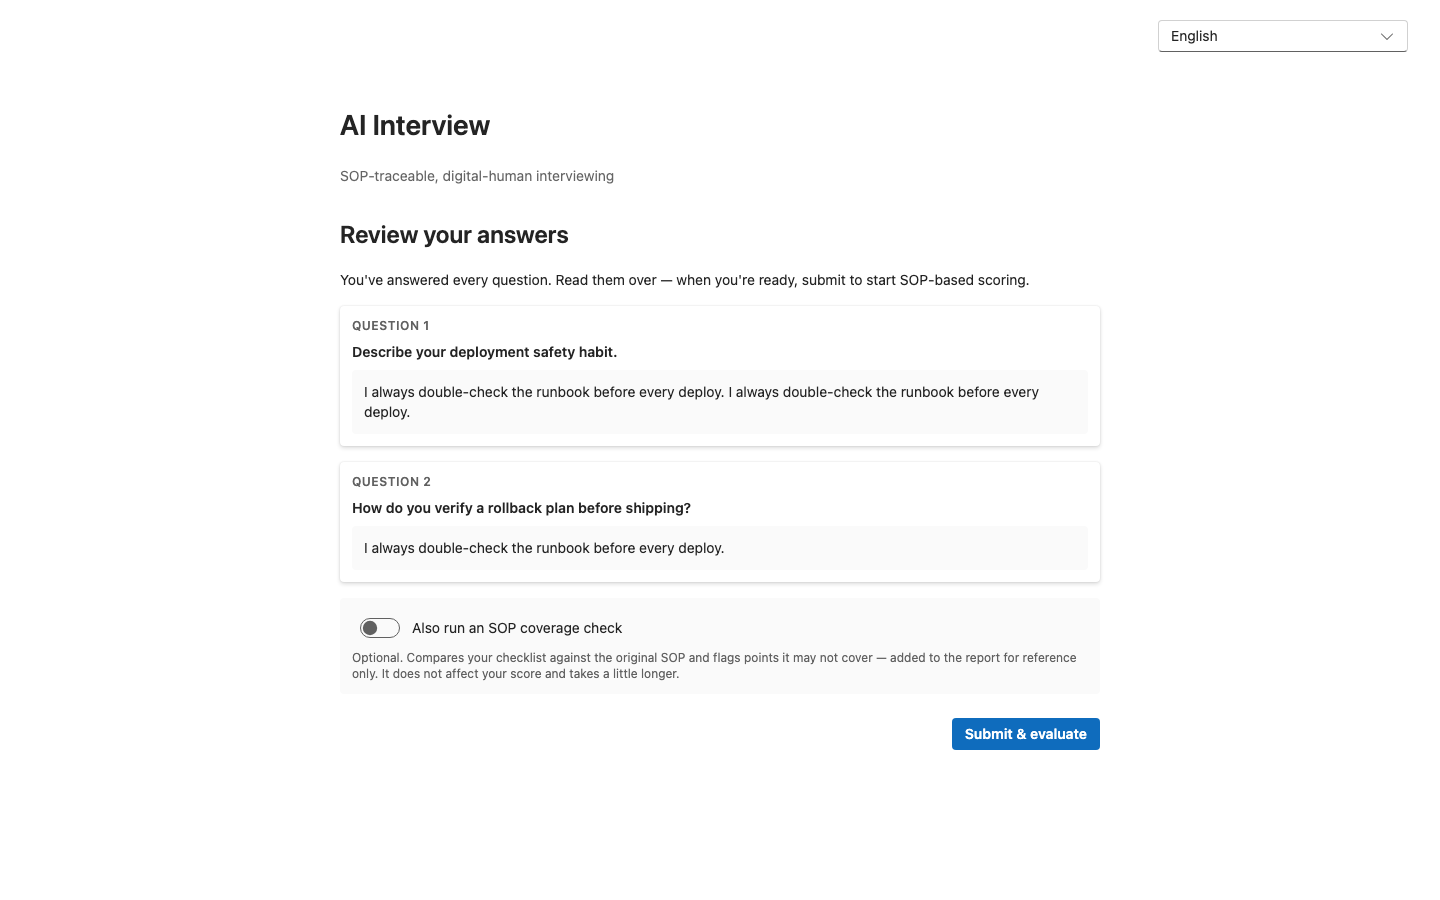
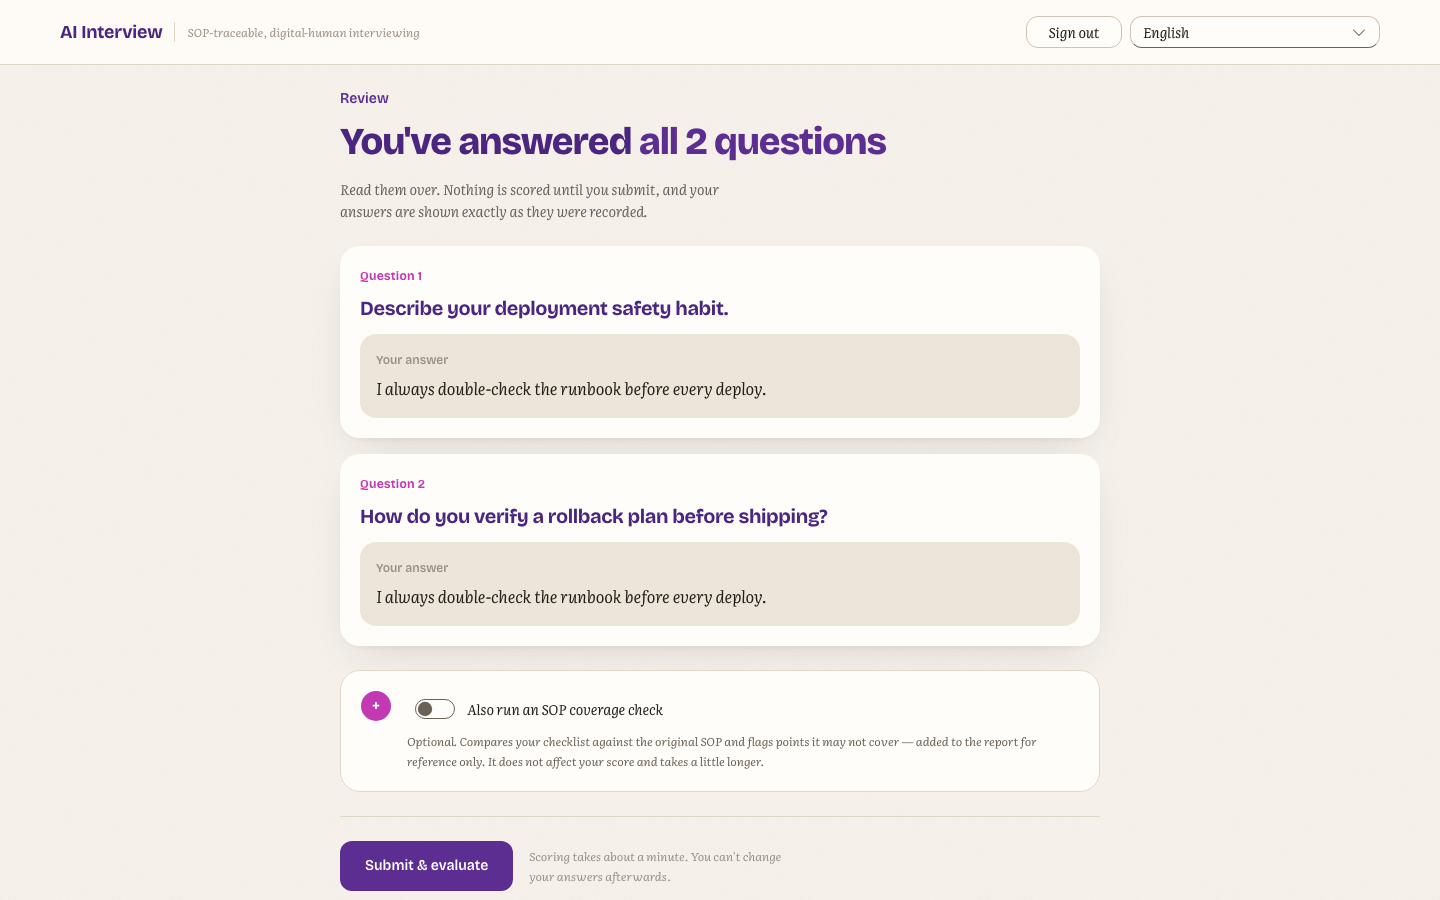
docs(readme): screenshots and prose current as of v0.42.2.0
Five of the README's nine screenshots were from 28 August — five weeks stale,
across four candidate screens that had been redesigned twice since. The page
also carried a warning block saying every screenshot predated v0.41.0.0, a test
count of "460+" against an actual 723, and an image of a feature that no longer
exists.

Screenshots: all nine regenerated on the mock stack. Two are new — the sign-in
screen, which the README never showed even though it is now the strongest screen
in the product, and the orientation beat, which is the only screen that tells the
candidate how many questions there are and had never been captured at all.

`03-follow-up-memory.png` is deleted rather than regenerated. Its capture was
gated on the page quoting the candidate back ("You mentioned …") — the
linear-mode template follow-up retired in v0.39.2.0 — so the condition can never
be true again and the shot can never be retaken. It had been silently shipping a
picture of a retired feature. The judged nudge that replaced it needs a real
judge verdict, which the mock stack does not produce; that section now says so
and points at the live spec that does cover it.

Prose: the stale-screenshot warning is replaced by a note on the design
language, the scenario sections are renumbered around the two new screens, the
test counts are real (723 backend / 623 frontend, 85% coverage gate), the stack
line says the Fluent theme is the project's own rather than the factory default,
[…]

diff --git a/frontend/e2e/readme-screenshots.spec.ts b/frontend/e2e/readme-screenshots.spec.ts
@@ -9,6 +9,13 @@ import { primeCandidateLogin } from "./helpers/candidateLogin";
  *
  * Self-skips unless SCREENSHOTS=1 so `npm run e2e` / CI stay unchanged:
  *   cd frontend && SCREENSHOTS=1 npx playwright test e2e/readme-screenshots.spec.ts
+ *
+ * RESTART THE MOCK STACK FIRST. playwright.config sets `reuseExistingServer: !CI`, so a backend
+ * left running from an earlier session is reused — and it serves the code it booted with. That is
+ * how a capture run on 2026-10-04 produced a report screenshot still showing the doubled full stop
+ * fixed hours earlier in v0.42.1.1: the uvicorn process was four hours old. Kill anything on :8100
+ * and :5273 before capturing, or the screenshots document a version that no longer exists:
+ *   pkill -f "uvicorn app.main:app.*8100"; pkill -f "vite.*5273"
  */
 
 const ENABLED = process.env.SCREENSHOTS === "1";
@@ -19,6 +26,21 @@ const ADMIN_PW = "e2e-admin-pw";
 test.skip(!ENABLED, "README screenshot capture is opt-in: set SCREENSHOTS=1");
 
 test.use({ viewport: { width: 1440, height: 900 } });
+
+/**
+ * Clear the mic-permission dialog if it appears (recorded learning, 2026-09-24).
+ *
+ * On a local Mac, headless Chromium has no fake media device, so getUserMedia rejects and the app
+ * raises "Microphone access needed" over the answer box — even with `permissions: ["microphone"]`.
+ * CI (Linux, fake device) never sees it. Without this the capture of the interview screen failed on
+ * a missing textbox and the August screenshots silently stayed in the README.
+ */
+async function continueByTextIfAsked(page: import("@playwright/test").Page) {
+  const useText = page.getByRole("button", { name: /use text instead|改用文字/i });
+  // The dialog arrives asynchronously, so wait for whichever shows first.
+  await expect(page.getByRole("textbox").or(useText).first()).toBeVisible();
+  if (await useText.isVisible().catch(() => false)) await useText.click();
+}
 
 test.beforeAll(async () => {
   if (!ENABLED) return;
@@ -51,7 +73,17 @@ test.beforeAll(async () => {
   await api.dispose();
 });
 
-test("capture candidate flow: interview → follow-up → review → report", async ({ page }) => {
+test("capture the sign-in screen", async ({ page }) => {
+  // Deliberately NOT primed: this is the screen a candidate actually arrives on, and since
+  // v0.41.1.0 it is the strongest one in the product — the interviewer's own portrait beside the
+  // form. The other test primes the login via addInitScript, which has to happen before goto, so
+  // the unauthenticated shot needs its own page.
+  await page.goto("/interview");
+  await expect(page.getByRole("button", { name: /登录|sign in/i })).toBeVisible();
+  await page.screenshot({ path: `${OUT}/00-signin.png` });
+});
+
+test("capture candidate flow: idle → orientation → interview → review → report", async ({ page }) => {
   await primeCandidateLogin(page); // #102: /interview is login-gated
   await page.goto("/interview");
   await expect(page.getByRole("button", { name: /开始面试|start interview/i })).toBeVisible();
@@ -59,14 +91,24 @@ test("capture candidate flow: interview → follow-up → review → report", as
 
   await page.getByRole("button", { name: /开始面试|start interview/i }).click();
   await expect(page.getByText(/开始之前|before we begin/i)).toBeVisible();
+  // The orientation beat is one of the four screens redesigned in v0.42.0.0 and had never been
+  // captured: it is the only screen that tells the candidate how many questions there are.
+  await page.screenshot({ path: `${OUT}/01b-orientation.png` });
   await page.getByRole("button", { name: /我准备好了|i'm ready/i }).click();
 
   await expect(page.getByTestId("question-progress")).toBeVisible();
+  await continueByTextIfAsked(page);
   await expect(page.getByRole("textbox")).toBeVisible();
   await page.screenshot({ path: `${OUT}/02-interview-question.png` });
 
-  // Answer turns until the report; grab the follow-up (memory) and review screens on the way.
-  let shotFollowUp = false;
+  // Answer turns until the report, grabbing the review screen on the way.
+  //
+  // There used to be a `03-follow-up-memory.png` capture here, gated on the body text matching
+  // /You mentioned|你刚才提到/. That was the LINEAR-mode template follow-up, retired in v0.39.2.0
+  // (a submit always advances now, in every turn mode), so the condition can never be true and the
+  // shot can never be taken — it would have silently kept shipping an August screenshot of a
+  // feature that no longer exists. The judged nudge that replaced it needs a real judge verdict,
+  // which the mock stack does not produce; it is covered by `bank-judged-live.spec.ts`.
   for (let i = 0; i < 20; i++) {
     if (await page.getByTestId("report-exec").isVisible().catch(() => false)) break;
 
@@ -83,19 +125,13 @@ test("capture candidate flow: interview → follow-up → review → report", as
     await box.fill("I always double-check the runbook before every deploy.");
     await page.getByRole("button", { name: /提交回答|submit answer/i }).click();
     await page.waitForTimeout(400);
-
-    const bodyText = (await page.locator("body").textContent().catch(() => "")) ?? "";
-    if (
-      !shotFollowUp &&
-      bodyText.includes("double-check the runbook") &&
-      /You mentioned|你刚才提到/.test(bodyText)
-    ) {
-      await page.screenshot({ path: `${OUT}/03-follow-up-memory.png` });
-      shotFollowUp = true;
-    }
   }
 
-  await expect(page.getByTestId("report-exec")).toBeVisible();
+  // The loop above only answers; waiting for the report belongs here. It used to rely on the
+  // loop's own iterations to catch `report-exec`, but once the last answer is submitted the
+  // review screen is gone and no textbox is left, so the loop breaks immediately and the default
+  // 10 s expect became the entire scoring budget — a bet on timing, not a wait.
+  await expect(page.getByTestId("report-exec")).toBeVisible({ timeout: 120_000 });
   await expect(page.getByTestId("score-gauge")).toBeVisible();
   await page.screenshot({ path: `${OUT}/05-report-executive.png`, fullPage: true });
 

diff --git a/README.md b/README.md
@@ -16,14 +16,31 @@ answers comply with the client's *own* SOP, and every judgment points back to it
 
 ## Key scenarios
 
-> **Every screenshot below predates v0.41.0.0.** That release replaced Fluent's factory
-> defaults with the project's own design language ("Warm Editorial / Foundry Purple": a warm sand
-> ground, Bricolage Grotesque + Literata, a purple action colour, and a real header band) and
-> rebuilt the page shell, so the layouts and colours shown here are the previous appearance. The
-> flows, controls and copy are unchanged. Regenerating them needs a live backend plus a seeded
-> candidate account — see `e2e/readme-screenshots.spec.ts` and the TODOS.md entry.
+> Screenshots are current as of **v0.42.2.0**, captured on the zero-Azure mock stack (the one
+> exception is the live digital-human shot below, which needs real Azure). The appearance is the
+> project's own design language, **Warm Editorial / Foundry Purple** — a warm sand ground,
+> Bricolage Grotesque + Literata, a purple action colour, and one shared content width — not
+> Fluent's factory defaults.
 
-### 1. The interview — digital-human interviewer, voice mode
+### 1. Signing in — the interviewer is the screen
+
+The candidate's first screen is the person who will interview them. The interviewer's portrait,
+the one promise that matters before starting (*you can speak or type, and you decide when each
+answer is finished*), and the form — nothing else.
+
+![Candidate sign-in — interviewer portrait beside the form](docs/images/00-signin.png)
+
+### 2. Before the interview — what you are walking into
+
+Signed in, the candidate sees who is interviewing them and the three things people actually worry
+about before starting. The next screen is the only one that says **how many questions there are**,
+with a rail previewing them:
+
+![Signed in — the interviewer, and what to expect](docs/images/01-landing.png)
+
+![Orientation — the question count and how answering works](docs/images/01b-orientation.png)
+
+### 3. The interview — digital-human interviewer, voice mode
 
 In voice mode the candidate is interviewed face-to-face: Azure Voice Live streams a live 1080p
 digital-human avatar that **speaks each question aloud** (captured below against real Azure — the
@@ -33,14 +50,14 @@ legend shows the live voice state (ready / listening / speaking / muted).
 
 ![Voice mode — live digital-human avatar speaking the question, transcript streaming](docs/images/09-live-avatar-voice.png)
 
-### 1b. Text mode — same flow, no Azure needed
+### 3b. Text mode — same flow, no Azure needed
 
 Every question can also be answered by text; on mock providers the avatar stage falls back to the
 audio orb, so the whole flow runs with zero Azure:
 
 ![Interview page in text mode — question, orb fallback, progress rail](docs/images/02-interview-question.png)
 
-### 2. Judged turn mode — a real-time nudge when an answer trails off
+### 4. Judged turn mode — a real-time nudge when an answer trails off
 
 In **Judged** turn mode a backend LLM judge listens during the candidate's pauses and, if the
 answer trails off mid-thought, speaks or shows one short nudge ("please go on" class) — live,
@@ -51,16 +68,20 @@ Also retired, in v0.39.2.0: the linear-mode template follow-up that quoted the c
 submit — a submit now always advances to the next question, in every turn mode; per-question
 **Max follow-ups** is kept for compatibility but is now inert.)
 
-![Judged turn mode nudge (screenshot predates v0.39.3.0; pending regeneration)](docs/images/03-follow-up-memory.png)
+> No screenshot: a nudge needs a real judge verdict, which the mock stack does not produce. The
+> screenshot that used to sit here showed the **linear-mode template follow-up retired in
+> v0.39.2.0** — the capture was gated on the page quoting the candidate back ("You mentioned …"),
+> which can no longer happen, so it silently kept shipping a picture of a feature that no longer
+> exists. The behaviour is covered end to end by `e2e/bank-judged-live.spec.ts` against real Azure.
 
-### 3. Review before scoring — explicit submit
+### 5. Review before scoring — explicit submit
 
 After the last question the candidate reviews every answer in order; scoring starts only on an
 explicit **Submit & evaluate** click (with an optional SOP coverage check):
 
 ![Pre-scoring review screen listing all answers](docs/images/04-review-before-scoring.png)
 
-### 4. The report — SOP-cited compliance scoring
+### 6. The report — SOP-cited compliance scoring
 
 The executive view leads with a classification rating (*Meets Expectations / Needs Improvement /
 Does Not Meet*) on a score gauge, and shows the **SOP source (document + page) beside the
@@ -72,7 +93,7 @@ source document.
 
 ![Report detail — per-question breakdown](docs/images/06-report-detail.png)
 
-### 5. Admin — question banks & AI-drafted scoring rubrics
+### 7. Admin — question banks & AI-drafted scoring rubrics
 
 Admins author question banks and per-question checklists. Checklists are **AI-drafted from the
 SOP** (required / recommended / forbidden items, each with a source quote + page), weights
@@ -80,7 +101,7 @@ normalized to 100, fully editable:
 
 ![Admin workspace — banks, questions, and the scoring rubric editor](docs/images/07-admin-rubric-editor.png)
 
-### 6. Admin — Foundry agent persona editor
+### 8. Admin — Foundry agent persona editor
 
 A portal-faithful editor for the interviewer persona: model deployment, voice, greeting, the full
 Azure avatar roster (video + photo styles), tools, per-persona knowledge, and per-engine voice
@@ -92,7 +113,8 @@ answer-submission timing (auto-submit on/off + silence window) — synced to a r
 ## Architecture
 
 ```
-frontend  React 18 + TypeScript + Vite + Fluent UI v9 · TanStack Query · i18next (zh-CN / en-US)
+frontend  React 18 + TypeScript + Vite + Fluent UI v9 (own design language, not the
+          factory theme) · TanStack Query · i18next (zh-CN / en-US)
 backend   Python 3.11 + FastAPI + SQLAlchemy 2.0 async + Alembic · JWT auth
 azure     AI Foundry agents (Responses API) · Voice Live (avatar, via a backend WS proxy)
           · Foundry IQ / AI Search (RAG with strict citation gating) · Blob Storage
@@ -107,6 +129,12 @@ infra     Azure Container Apps (Sweden Central) · Bicep · GitHub Actions OIDC 
   code default.
 - **Candidate privacy boundary (P3)** — the candidate API never exposes rubric/checklist content;
   enforced by tests.
+- **Scoring is concurrent and survives failure** (v0.42.1.0 / v0.42.2.0) — each question is graded
+  against its own checklist by its own LLM call, three at a time, streamed to the browser as NDJSON
+  with a heartbeat so a long grade never looks like a dead connection. Measured on the live app:
+  **80 s for a nine-question report**, down from 170-190 s sequential. A question that fails is
+  marked *not scored* and excluded from the score rather than given a zero — nobody judged that
+  answer — and the rest of the report still renders.
 
 ## Quickstart (zero Azure, mock providers)
 
@@ -139,8 +167,8 @@ that exists on your resource.
 ## Testing
 
 ```bash
-cd backend && pytest                     # 460+ tests, ~86% coverage
-cd frontend && npm test                  # vitest unit/component tests
+cd backend && pytest                     # 723 tests, 85% coverage gate
+cd frontend && npm test                  # 623 vitest unit/component tests
 cd frontend && npm run e2e               # Playwright E2E — boots both servers, real Chromium, zero Azure
 ```
 
@@ -151,7 +179,11 @@ in CI.
 The README screenshots regenerate with:
 
 ```bash
-# Mock-stack scenarios (zero Azure; boots its own servers)
+# Mock-stack scenarios (zero Azure; boots its own servers).
+# Kill any stale stack FIRST: playwright reuses an already-running server, and that process serves
+# the code it booted with — a four-hour-old backend once produced a screenshot of a bug fixed
+# hours earlier.
+pkill -f "uvicorn app.main:app.*8100"; pkill -f "vite.*5273"
 cd frontend && SCREENSHOTS=1 npx playwright test e2e/readme-screenshots.spec.ts
 
 # Live avatar shot (real dev servers on :5173/:8000 with real Foundry credentials)

diff --git a/TODOS.md b/TODOS.md
@@ -302,6 +302,35 @@ number.
 
 ## Test infrastructure
 
+### The README screenshot script rots silently, because nothing runs it
+
+`e2e/readme-screenshots.spec.ts` is opt-in (`SCREENSHOTS=1`), so CI never runs it. When the product
+moves, the script breaks and *nobody is told* — it just fails, and the old PNGs keep shipping as if
+they were current. That is exactly how the README carried August screenshots into October: five
+images were five weeks stale while the four candidate screens had been redesigned twice.
+
+Regenerating them on 2026-10-04 surfaced **three independent silent-failure modes in one sitting**:
+
+1. The local mic-permission dialog hid the answer textbox, so the interview-screen capture failed
+   (a recorded learning from 2026-09-24 that the script had never picked up).
+2. The capture loop `break`ed as soon as the review screen was gone, leaving the default 10 s
+   `expect` as the whole scoring budget — a bet on timing, not a wait.
+3. `reuseExistingServer: !CI` reused a **four-hour-old** uvicorn process, which serves the code it
+   booted with. The resulting report screenshot still showed the doubled full stop fixed hours
+   earlier in v0.42.1.1. Caught only by reading the image, not by the run's exit status.
+
+All three are fixed and documented in the spec's header, but the structural problem is untouched:
+there is still no signal when the script stops matching the product.
+
+**Options:** run it in CI with a visual diff (expensive, flaky on font rendering); run it on a
+schedule and fail loudly; or add a cheap CI assertion that each referenced PNG is newer than the
+last change to the component it depicts. The third is the least work for most of the value.
+
+**Effort:** CC: ~40 min for the mtime-vs-component assertion; a real visual-diff pipeline is a day.
+**Priority:** P2 — the README is the first thing a client reads, and it was wrong for five weeks
+without anyone noticing.
+
+
 ### `playwright.config.ts` sets no `actionTimeout`, so a stuck action has no bound
 
 `timeout` (60s, raised per-spec) and `expect.timeout` (10s) are set; `actionTimeout` is not, so it
